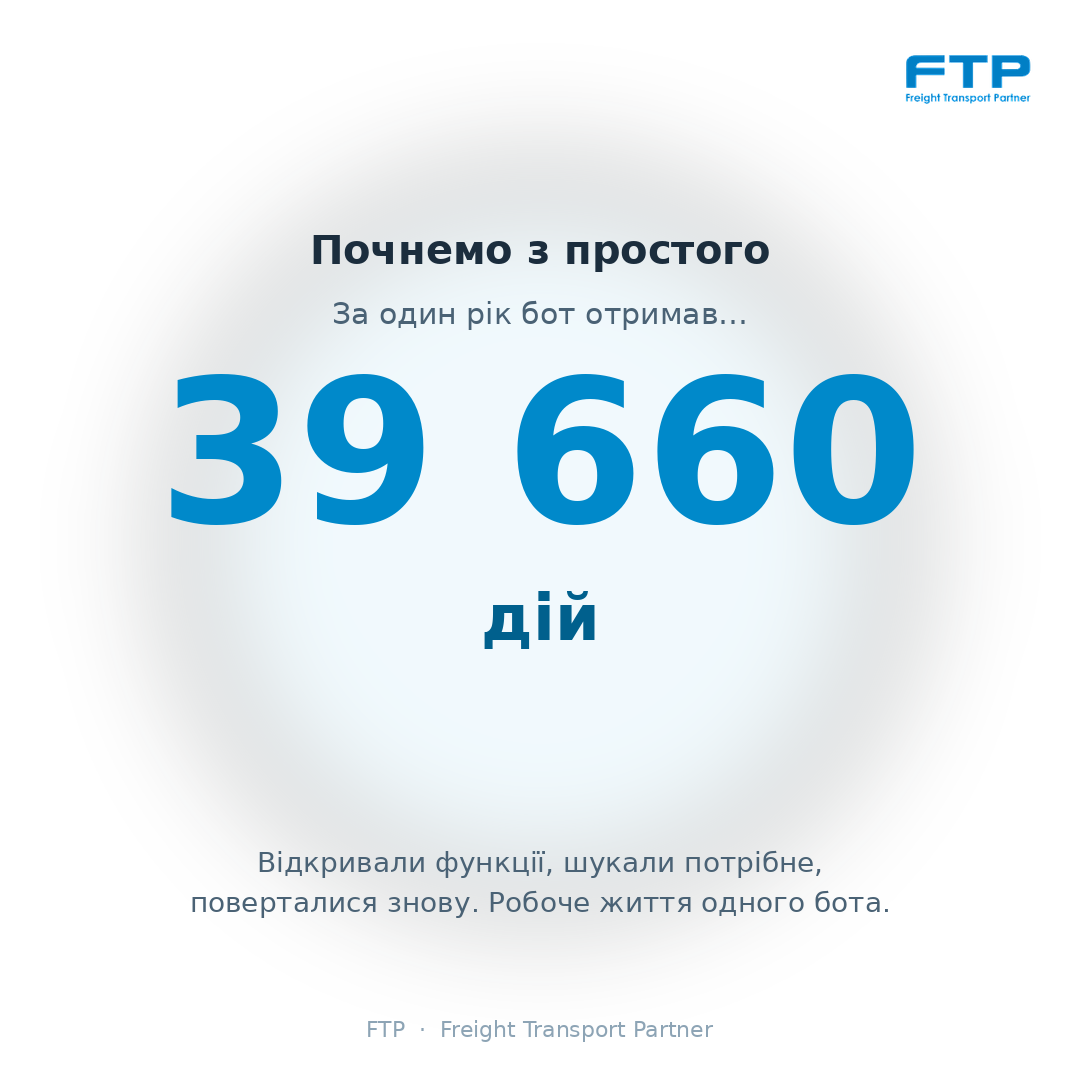
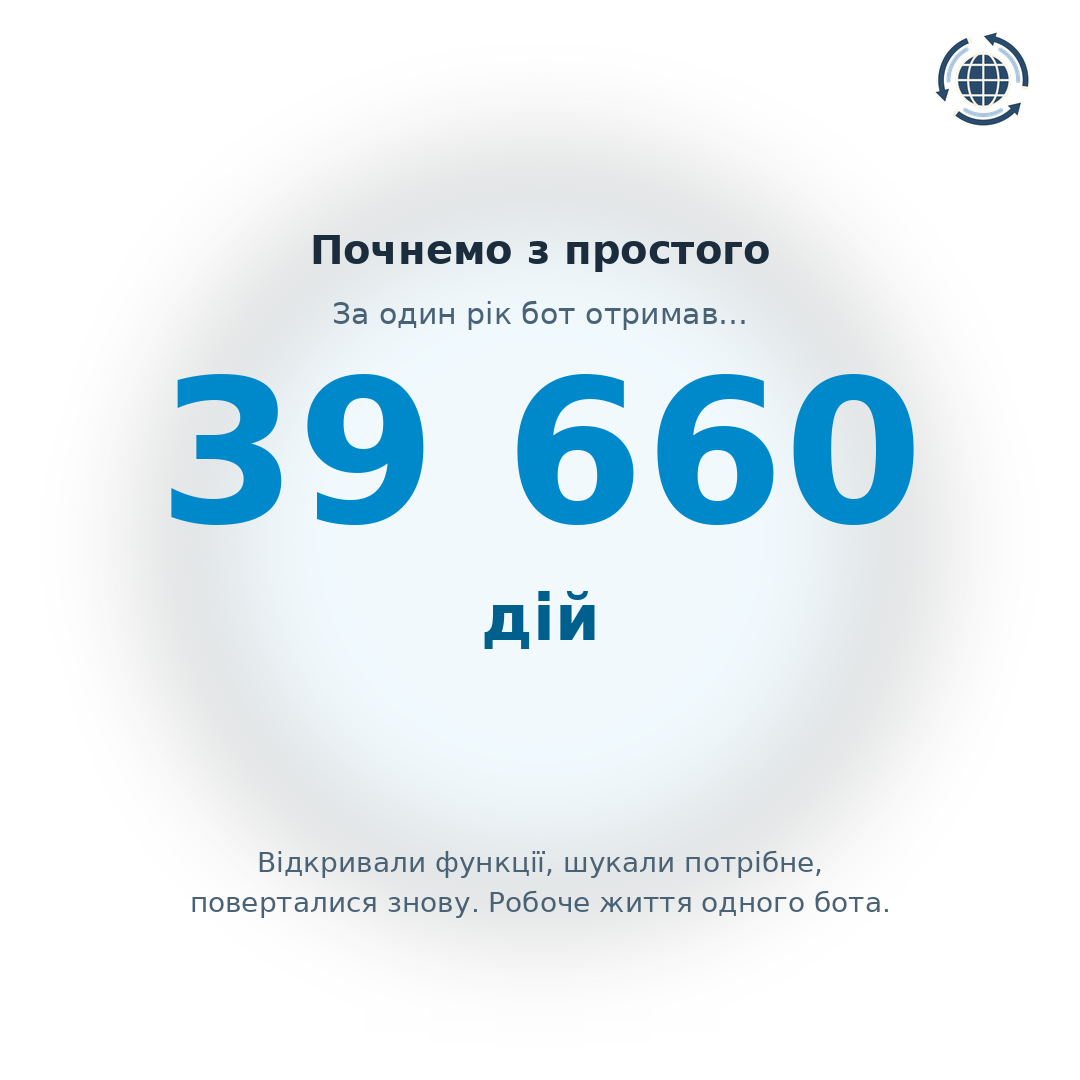
180926/3

Changed region(s): [[0.825, 0.0306, 0.9778, 0.1222], [0.4278, 0.9472, 0.6417, 0.9778], [0.3361, 0.9472, 0.3667, 0.9778]]

diff --git a/messages/oneTimeMessages/botYearReport/bot_year_report.py b/messages/oneTimeMessages/botYearReport/bot_year_report.py
@@ -1,5 +1,5 @@
 """
-Звіт про перший рік роботи бота: 1 вересня боту виповнився рік у компанії.
+Звіт про перший рік роботи FTPFinanceBot: 1 вересня йому виповнився рік у компанії.
 
 Користувач отримує перший екран і гортає статистику кнопками — кожен крок
 редагує те саме повідомлення, щоб не засмічувати чат.
@@ -45,14 +45,20 @@ IMAGES_DIR = Path(__file__).resolve().parent / "images"
 STEPS = {
     # Уся статистика вже намальована на самих картинках — дублювати її підписом
     # не треба. Підписи лишаються тільки там, де несуть НОВИЙ зміст: крок 1
-    # (привід і нагадування функцій) і крок 7 (куди писати ідеї).
+    # (привід), крок 2 (нагадування функцій) і крок 8 (куди писати ідеї).
     1: {
-        "file": "screen_1_actions.png",
+        "file": "screen_1_intro.png",
         "caption": (
-            "🎉 <b>Боту — рік!</b>\n\n"
-            "1 вересня виповнився рік, як бот працює в компанії. Зібрали короткий "
-            "звіт — що з ним відбувалося за цей час.\n\n"
-            "Нагадаємо, чим він може бути корисним просто зараз:\n\n"
+            "🎉 <b>FTPFinanceBot — рік у роботі!</b>\n\n"
+            "1 вересня виповнився рік, як FTPFinanceBot працює в компанії. "
+            "Зібрали короткий звіт — що з ним відбувалося за цей час.\n\n"
+            "Гортайте 👇"
+        ),
+    },
+    2: {
+        "file": "screen_2_actions.png",
+        "caption": (
+            "Нагадаємо, чим FTPFinanceBot може бути корисним просто зараз:\n\n"
             "💼 /salary — розрахунковий лист, оклад і бонуси\n"
             "📊 /analytics — аналітика по угодах і прибутку\n"
             "📉 /debt — дебіторська заборгованість\n"
@@ -61,15 +67,15 @@ STEPS = {
             "🤖 Просто напишіть запитання в чат — відповість AI"
         ),
     },
-    2: {"file": "screen_2_users.png", "caption": None},
-    3: {"file": "screen_3_functions.png", "caption": None},
-    4: {"file": "screen_4_salary.png", "caption": None},
-    5: {"file": "screen_5_night.png", "caption": None},
-    6: {"file": "screen_6_ai.png", "caption": None},
-    7: {
-        "file": "screen_7_recap.png",
+    3: {"file": "screen_3_users.png", "caption": None},
+    4: {"file": "screen_4_functions.png", "caption": None},
+    5: {"file": "screen_5_salary.png", "caption": None},
+    6: {"file": "screen_6_night.png", "caption": None},
+    7: {"file": "screen_7_ai.png", "caption": None},
+    8: {
+        "file": "screen_8_recap.png",
         "caption": (
-            "💡 Є ідея, як зробити бота зручнішим? Напишіть на <b>od@ftpua.com</b> — "
+            "💡 Є ідея, як зробити FTPFinanceBot зручнішим? Напишіть на <b>od@ftpua.com</b> — "
             "за ідею, яку візьмемо в роботу, діє винагорода <b>500 грн</b>.\n\n"
             "Деталі — у розділі «ℹ Інформація» → «💡 Нові ідеї»."
         ),

diff --git a/telegrambot.py b/telegrambot.py
@@ -811,8 +811,8 @@ def main():
     scheduler.add_job(
        send_message_to_users,
        'cron',
-       hour=10,
-       minute=15,
+       hour=11,
+       minute=20,
        timezone=kyiv_timezone
    )
 
